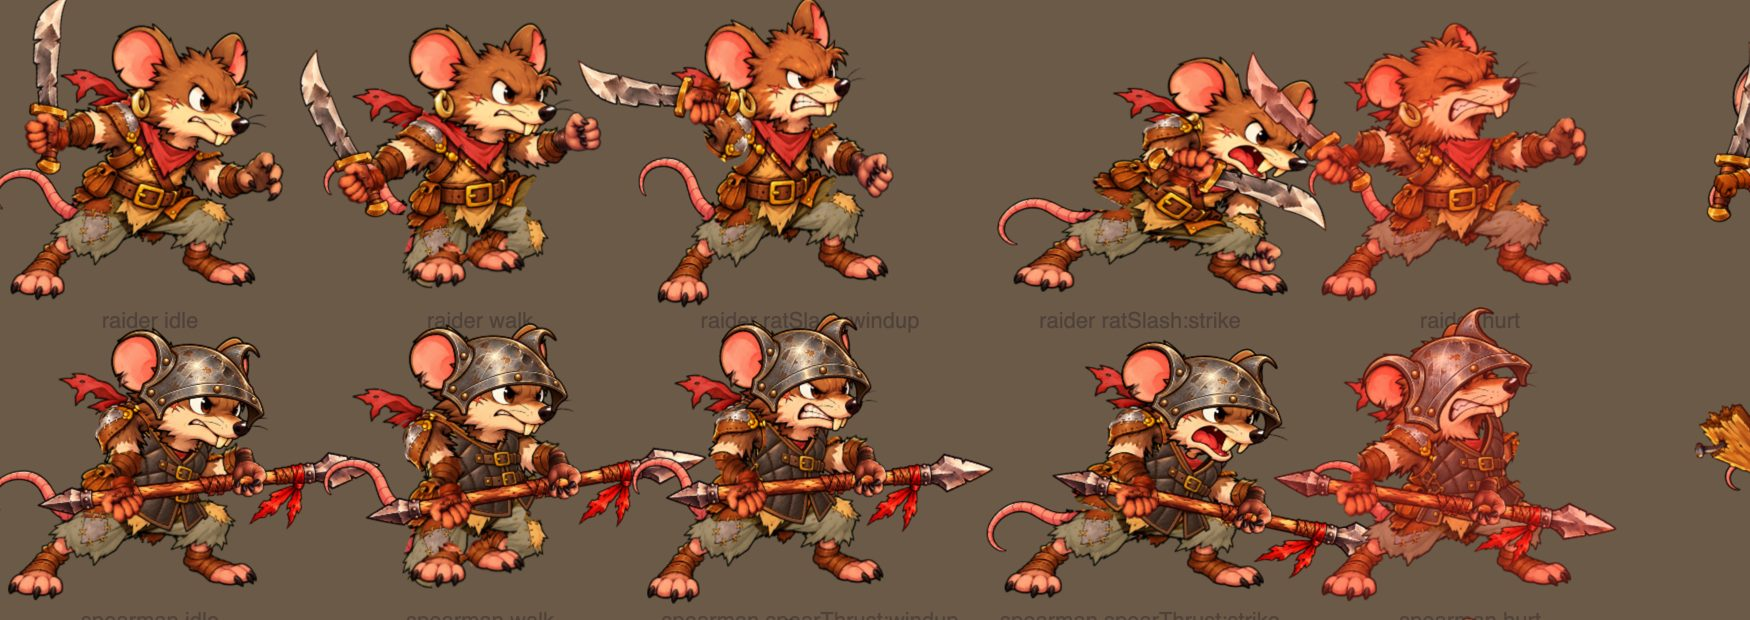
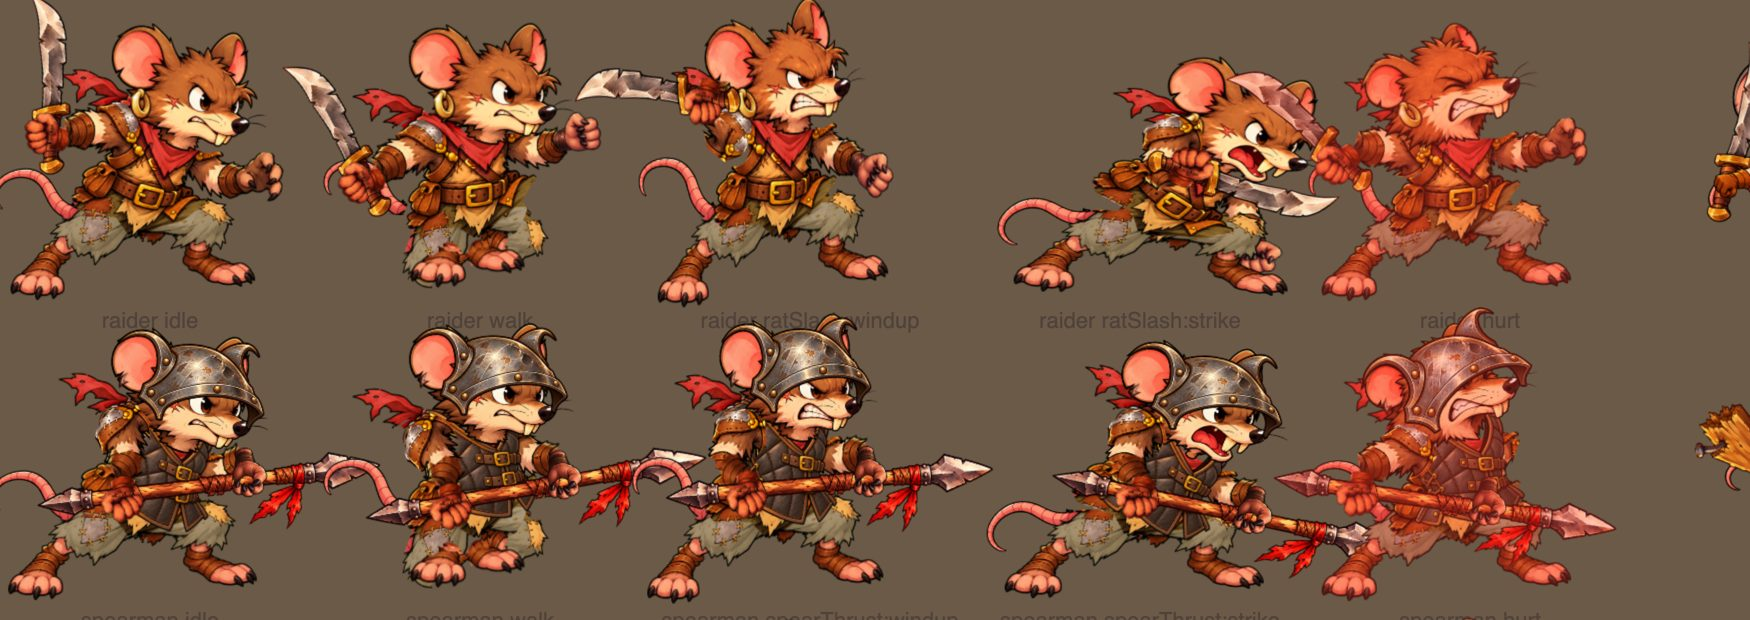
T020 round 3: cutlass not mirrored (its convex cutting edge already faces away from him in the back arm); build v3

diff --git a/src/data/rigs/rat-raider.js b/src/data/rigs/rat-raider.js
@@ -15,7 +15,7 @@
 //   restIn turns the item so its handle runs along it). Near grip hand: its slot is cut straight up the fist (-90,
 //   measured on A010 hand-front-grip). Far grip hand: a ring of claws, the handle across the forearm (wrist -> ring
 //   centre is 2 degrees, so -88: the bow stands straight up with the hand level). T020 round 2: the cutlass sits 10 deg back
-//   of the cut slot (user's pick by eye: the knuckle rows lean); `mirror` on a slot flips the item across that axis.
+//   of the cut slot (user's pick by eye: the knuckle rows lean).
 // grips: per grip type, the hand swaps it puts on, and IK (render/rig-grip.js): ik.arm = [upper, lower] joints it bends;
 //   ik.end = the part whose point ik.hand (that part's own px) must reach ik.to on the weapon art (spear `grip2`, bow
 //   `nock`); arrow / string = draw order of a nocked arrow and the drawn string (in front of the body).
@@ -38,7 +38,7 @@ export default {
   rootY: 43.144,    // pelvis pivot height above the feet in the master crouch (screen px)
   overlays: OVERLAYS, views: VIEWS, masks: MASKS,
   slots: {
-    'one-hand': { parent: 'hand-front', attach: SLOT, order: 830, mirror: true },   // T020 r2: edge away from the body (he holds it in the back arm)
+    'one-hand': { parent: 'hand-front', attach: SLOT, order: 830 },   // the cutlass's convex (cutting) edge already faces away from him in the back arm
     'two-hand': { parent: 'hand-front', attach: SLOT, order: 830 },
     bow: { parent: 'hand-back', attach: RING, order: 125 },
   },

diff --git a/src/render/rig.js b/src/render/rig.js
@@ -92,11 +92,7 @@ export function heldOf(f, rig, sheathed = false) {
   const slot = typeof spec === 'string' ? spec : 'held', kit = W.def, grip = kit.grip;
   if (W.broken || (!f.weapon && f.dropped && f.def.drop?.item === kit.id)) return { slot, part: null, grip, kit };
   const A = kit.art, mount = typeof spec === 'string' ? {} : spec;   // T018: a slot's own `rest` turns the item in the hand
-  const k = A.px / rig.scale, ax = rig.axes?.[grip];
-  // T020: `mirror` slot: the item drawn flipped across the handle axis (handle still in the fist; a blade's edge on the
-  // other side, e.g. away from the body in the back hand). A reflection across angle ax = flip y, then turn rest - 2 ax.
-  if (mount.mirror && ax != null) return { slot, grip, kit, part: { ...mount, img: A.img, pivot: A.grip, rest: restIn(rig, kit) - 2 * ax, scale: [k, -k] } };
-  return { slot, grip, kit, part: { ...mount, img: A.img, pivot: A.grip, rest: restIn(rig, kit), scale: k } };
+  return { slot, grip, kit, part: { ...mount, img: A.img, pivot: A.grip, rest: restIn(rig, kit), scale: A.px / rig.scale } };
 }
 
 // T020: the handle runs through the fist. rig.axes[grip type] = the slot axis: the direction (degrees, in the slot

diff --git a/src/config.js b/src/config.js
@@ -3,4 +3,4 @@ export const VIEW = { w: 960, h: 540 };   // internal resolution; CSS scales to 
 export const FPS = 60;                    // sim runs at a fixed 60 steps/sec; all timings are in frames
 export const START_STAGE = 'harbor-run';   // ?stage=harbor-market in the URL loads the single-screen arena
 export const START_HERO = 'mouse-fighter';
-export const BUILD = 't020 rat weapons v2';
+export const BUILD = 't020 rat weapons v3';

diff --git a/docs/MODULES.md b/docs/MODULES.md
@@ -45,7 +45,7 @@ One line per file: what it does and what it exports. **Read this instead of the 
 | `src/render/props.js` | Props (bottom centre on their spot, shudder after a hit), floor items (soft glow under them, capped at `JUICE.items.glowMax`; `art.floor` turns an upright drawing to lie flat, T020; weapons blink before vanishing; spinning with ghosts in flight), held weapon on a standee (`art.hand`, swung by move phase) | `drawProp drawPropShadow drawItem drawHeldStandee` |
 | `src/render/prop-fx.js` | Effects from `propHit propBreak eat pickup itemLand weaponBreak` and `hit` with `move.fx.word`: chips, dust, debris pieces that tumble/bounce/fade (airborne in front, landed on the floor layer), crunch flash, heal number + sparkles, weapon snapping in two, pop-up words (one per swing) | `createPropFx` |
 | `src/render/standee.js` | Fighter drawn as a standee: lean/squash/hop per state (block = braced forward lean, jolts back in blockstun, breathes (T015 `braceOf`, `JUICE.brace`); `BLOCK_LEAN` and the breath lean are undone by the rig; grabbed = pulled up by the collar, doubles over on each knee, tips over when hoisted; thrown = tumbles round his middle, pose `cy`) and move phase, flips, flashes, tints | `drawStandee drawShadow poseOf braceOf BLOCK_LEAN` |
-| `src/render/rig.js` | Fighter drawn as a cutout rig (via `gripLayout`): part hierarchy -> buffer, then placed like a standee (lean, flip, flash, tints). Draws swap images (`layoutRig(rig, joints, swap, held)` returns each part's `img`, and `base`: its own image's matrix, T019); a swap may `hide` other parts and `carry` children onto points of its image (whole-arm drawings carrying the shield / sword, T012); optional held pose (`cast`). Held weapon: `heldOf(f, rig)` puts the kit's image, grip point (pivot) and size (`art.px / rig.scale`) on the rig's slot part for its grip type (`rig.slots`, e.g. one-hand -> sword); broken = empty hand; also empty while the sword is sheathed (pickup after the stow, a whole swap, first half of a sword draw). T020: the item's turn in the hand = `restIn(rig, kit)`: `rig.axes[grip]` (slot axis, parent px) minus the item's handle angle (`handleAngle`: grip -> art.gripEnd); without both, the slot's + item's `rest`. A slot with `mirror` draws the item flipped across that axis (T020 r2: the raider's cutlass edge faces away from his body). A def's `kit` (T011) is held when nothing else is; an object slot (`{parent, attach, order}`) adds the weapon as an upright part `held` (the bow) | `drawRig layoutRig heldOf` |
+| `src/render/rig.js` | Fighter drawn as a cutout rig (via `gripLayout`): part hierarchy -> buffer, then placed like a standee (lean, flip, flash, tints). Draws swap images (`layoutRig(rig, joints, swap, held)` returns each part's `img`, and `base`: its own image's matrix, T019); a swap may `hide` other parts and `carry` children onto points of its image (whole-arm drawings carrying the shield / sword, T012); optional held pose (`cast`). Held weapon: `heldOf(f, rig)` puts the kit's image, grip point (pivot) and size (`art.px / rig.scale`) on the rig's slot part for its grip type (`rig.slots`, e.g. one-hand -> sword); broken = empty hand; also empty while the sword is sheathed (pickup after the stow, a whole swap, first half of a sword draw). T020: the item's turn in the hand = `restIn(rig, kit)`: `rig.axes[grip]` (slot axis, parent px) minus the item's handle angle (`handleAngle`: grip -> art.gripEnd); without both, the slot's + item's `rest`. A def's `kit` (T011) is held when nothing else is; an object slot (`{parent, attach, order}`) adds the weapon as an upright part `held` (the bow) | `drawRig layoutRig heldOf` |
 | `src/render/rig-pose.js` | Rig pose per state/move phase (waves, windup/through/strike, easing, overshoot) and blending from the last drawn pose; part swaps per pose/phase (switch at once, strike swaps last `timing.swapBack` of recovery); optional pose override. A `through` pose's swaps show only mid-swing (`timing.throughSwap`; slash2's one back-view drawing). Channels: joint angles, dx/dy, `sx` whole-body width (-1 mirrored; slash2's mid-spin), per-part `.sx/.sy` stretch and `.order`. Grab poses: `grabbing`, `knee` (from `grab.knee` frames), `throwWind`/`throwWindBack` (mirrors) then `throwRelease`. Weapon `toss` then `tossRelease`; `pickup` = `stow` (sword swept back to the hip) -> `reach` (crouch, boots flat) -> idle. `squatLayer`: joints pulled toward the `jumpSquat` crouch (T014). `grabbed`/`thrown` use the rig's `held` pose if it has one (rats, T011). `drawLayer`: arm-only sword draw (to the `stow` arm and back up over `timing.drawSword`) after a held weapon is thrown or breaks; `mem.sheathed` hides the sword for its first half. A weapon kit move uses the rig move pose named by its `rig` field (club2 -> slash3), unless the rig's `kits[<item id>].moves` has its own (T017); `kits[<id>]` idle/walk lay over the normal ones (club shouldered, fish dangled). A move pose's `hold` = share of the windup held at the top (`tremble` deg arm shake). Pure | `targetPose rigJoints drawLayer squatLayer channelsOf jointsOfRig` |
 | `src/render/rig-grip.js` | Weapon grips (T011, T018 hands): for a held kit whose grip type is in `rig.grips`, puts on its hand swaps (rat: far `hand-back-grip`; near `hand-front-pinch` for the bow), bends `ik.arm` with 2-bone IK (2 passes, keeps the elbow's bend side) so `ik.hand` on the `ik.end` part (a hand riding on the lower arm; default the lower arm) lands on the kit's `grip2` (spear shaft) or the bow's `nock` pulled back by the draw; `hide`s parts; a drawn bow adds the string (`line` entry, order `G.string`) and the shot's arrow nocked (order `G.arrow`). A bow hand only reaches for the string over the first `reachIn` of the draw. T020: `align` (two-hand): the far fist's own axis laid along the shaft, solved in one go (wrist IK'd to where the turned fist's ring sits on `grip2`; the other way round if out of reach); `wrist` 'above'/'below': which side of the shaft the far forearm comes from (T020 r2: the spearman's front fist from above); out of reach, the far fist slides back along the shaft toward the near grip; `order`: draw orders while gripping (far fist over the shaft); `anchor` {part, at}: full draw pulls the string to that body point (the jaw) instead of the item's `pull`; the nocked arrow (A012, points right) lies along the bow's forward axis. Pure. Also exports its 2-bone IK (`reach`, `at`) for the brace loop's planted legs | `gripLayout drawOf reach at` |
 | `src/render/brace.js` | Bracing loop while blocking (T015): layered over the rig's blended `block` pose from `rig.brace` data: breath (torso stretch lifts head/shoulders), shield + guard arm lagging the breath, sword ready-grip twitch, hip sway (dx) with both boots kept on their spot by leg IK. Weight 0 outside block and in blockstun, eases in over `fade` frames; sway rests while shuffle-walking (`mem.swayW`). drawRig stores the layered pose in `mem.last` (no pop leaving block). Pure | `braceLayer braceWeight solesOf` |

diff --git a/docs/STATUS.md b/docs/STATUS.md
@@ -54,7 +54,7 @@
 - League of Legends-style hero kits (passive + three cooldown abilities + an ultimate, on top of the basic combo), like Dungeon Fighter Online. User is a big LoL fan. Idea only, for Stage 8 heroes; mind button count.
 
 ## Last session
-2026-10-16 code: T020 round 2 (user: cutlass "still not quite lined up"; spear "clutching it very close", wants underhand): picked from labelled variants: cutlass J (slot axis 10 deg back of the cut slot) with the blade mirrored so the edge faces away from his body (new slot `mirror`); spear E (back fist turned over, low at the belt; front arm reaching out, grip2 62 px out, front fist from above; slides along the shaft when out of reach). Build v2; 20/20 tests.
+2026-10-16 code: T020 round 2 (user: cutlass "still not quite lined up"; spear "clutching it very close", wants underhand): picked from labelled variants: cutlass J (slot axis 10 deg back of the cut slot) (its convex cutting edge faces away from his body as drawn: a mirror tried in r2 turned it inward and was removed); spear E (back fist turned over, low at the belt; front arm reaching out, grip2 62 px out, front fist from above; slides along the shaft when out of reach). Build v2; 20/20 tests.
 2026-10-16 code: T020 r2 notes for the lead: user wanted the back fist overhand too, but the rat's near arm (~28 px) can't hold an overhand fist below chest height (screen round2-spear-E-vs-N.jpg); user asks whether weapons should be drawn with the hands as part of them for correct grips. Shadows (floor items, all) "a bit abstract": outside T020.
 2026-10-16 code: T020 on branch `t020-rat-weapons-holds`: A012 spear/bow/arrow + near pinch hand imported; weapons turn so the handle runs through the fist (rig slot axes, measured on A010's hands, x item `gripEnd`): cutlass 6 deg off before, now in line in every pose; spearman's far fist closes round the shaft over it (solved, not iterated); archer draws to the jaw (bow arm out level, bow upright, 44 px draw); spear/bow lie flat on the floor. Bot runs identical (sim untouched); 20/20 tests (new tests/weapon-hold.test.mjs).
 2026-10-16 code: T020 notes: arrow 50 -> 69 px nocked (needed past the bow at a full draw), flight size kept (~75 px, JUICE.shot.size 1.5 -> 1.1); the mouse's floor weapons also follow his fist now (cutlass turns 11 deg, club 5, fish 8 vs before). New tools/hold-sheet.html; screens docs/screens/T020/. Build `t020 rat weapons v1`.
